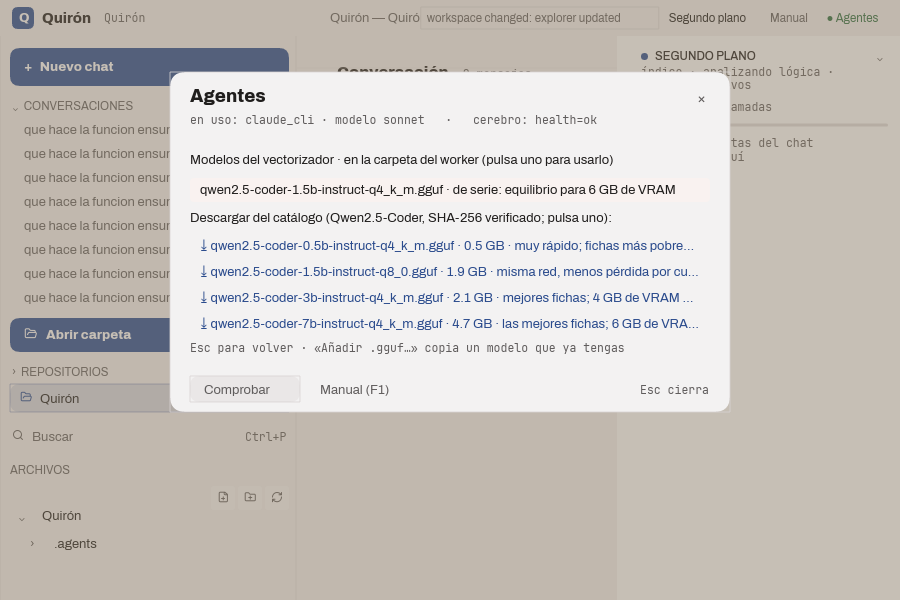
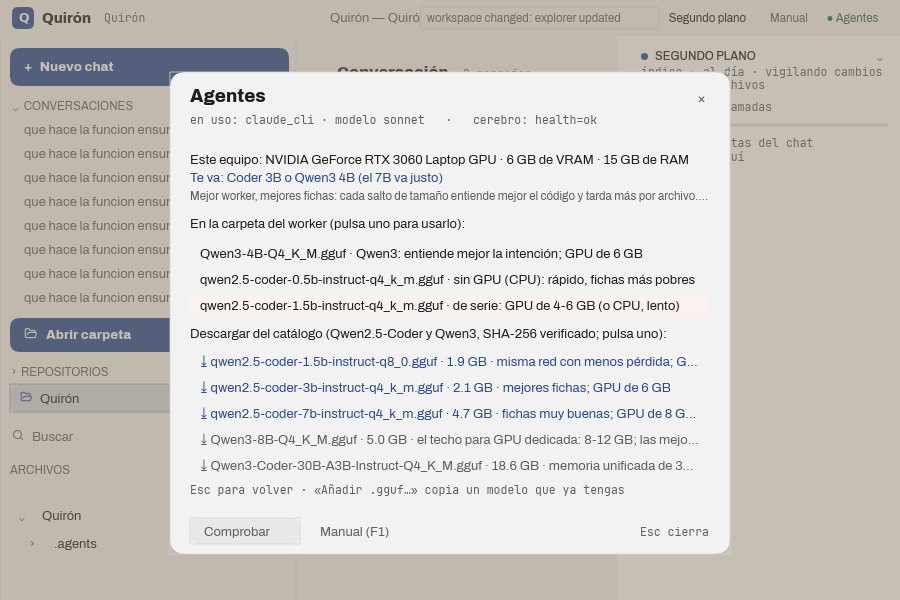
Catálogo del vectorizador con techo Qwen3 8B y guía de hardware en la paleta
- setup-worker.py: Coder 0.5B/1.5B(Q4,Q8)/3B, Qwen3 4B, Coder 7B, Qwen3 8B
  (techo para GPU dedicada) y Qwen3-Coder 30B-A3B solo para memoria unificada;
  revisión, SHA-256 y VRAM orientativa fijas.
- Paleta → Modelos: detecta GPU (nvidia-smi) y RAM, dice «Este equipo … · Te
  va …» y marca cada entrada (justo / solo CPU / no cabe). Prueba de la regla.
- run-worker.sh: --reasoning-budget 0 (el vectorizador no piensa; Qwen3 híbridos).
- Manual y guía con la tabla por equipo. Probado Qwen3 4B como vectorizador:
  fichas JSON limpias, sin <think>.

Changed region(s): [[0.1867, 0.24, 0.8089, 0.93], [0.8089, 0.12, 0.9022, 0.15], [0.9333, 0.12, 0.9644, 0.15]]

diff --git a/Quirón/llore_editor/crates/llore_ui/src/app.rs b/Quirón/llore_editor/crates/llore_ui/src/app.rs
@@ -101,8 +101,114 @@ pub struct WorkerCatalogEntry {
     pub name: String,
     pub file: String,
     pub size_gb: f64,
+    /// VRAM de GPU dedicada con la que va bien; 0 = pensado para CPU.
+    pub min_vram_gb: f64,
     pub nota: String,
     pub present: bool,
+}
+
+/// Lo que se sabe del equipo para aconsejar un modelo del vectorizador.
+#[derive(Debug, Clone, Default, PartialEq)]
+pub struct HardwareInfo {
+    pub gpu: Option<String>,
+    pub vram_gb: f64,
+    pub ram_gb: f64,
+}
+
+impl HardwareInfo {
+    /// `nvidia-smi` si hay GPU NVIDIA; la RAM, de /proc/meminfo.
+    pub fn detect() -> HardwareInfo {
+        let mut info = HardwareInfo::default();
+        if let Ok(salida) = std::process::Command::new("nvidia-smi")
+            .args(["--query-gpu=name,memory.total", "--format=csv,noheader,nounits"])
+            .output()
+        {
+            let texto = String::from_utf8_lossy(&salida.stdout);
+            if let Some(linea) = texto.lines().next() {
+                let mut partes = linea.rsplitn(2, ',');
+                let mib: f64 = partes.next().and_then(|m| m.trim().parse().ok()).unwrap_or(0.0);
+                let nombre = partes.next().map(|n| n.trim().to_string()).filter(|n| !n.is_empty());
+                if mib > 0.0 {
+                    info.vram_gb = mib / 1024.0;
+                    info.gpu = nombre;
+                }
+            }
+        }
+        if let Ok(meminfo) = fs::read_to_string("/proc/meminfo") {
+            for linea in meminfo.lines() {
+                if let Some(resto) = linea.strip_prefix("MemTotal:") {
+                    let kb: f64 = resto.trim().trim_end_matches("kB").trim().parse().unwrap_or(0.0);
+                    info.ram_gb = kb / 1024.0 / 1024.0;
+                }
+            }
+        }
+        info
+    }
+
+    /// Frase de una línea con lo que hay.
+    pub fn resumen(&self) -> String {
+        match &self.gpu {
+            Some(gpu) => format!("{} · {:.0} GB de VRAM · {:.0} GB de RAM", gpu, self.vram_gb, self.ram_gb),
+            None => format!("sin GPU NVIDIA detectada · {:.0} GB de RAM", self.ram_gb),
+        }
+    }
+
+    /// Consejo por tramos de hardware. Mejor worker, mejores fichas: cada
+    /// salto de tamaño mejora la ficha y tarda más por archivo.
+    pub fn recomendacion(&self) -> &'static str {
+        recomendar_modelo(self.vram_gb, self.ram_gb)
+    }
+
+    /// Si un modelo del catálogo cabe: por VRAM, o en CPU con RAM de sobra.
+    pub fn cabe(&self, entrada: &WorkerCatalogEntry) -> Ajuste {
+        if entrada.min_vram_gb <= 0.0 || self.vram_gb >= entrada.min_vram_gb {
+            Ajuste::Bien
+        } else if self.vram_gb > 0.0 && self.vram_gb >= entrada.size_gb + 1.2 {
+            // Pesos más caché de contexto y búferes: un margen de 1,2 GB.
+            Ajuste::Justo
+        } else if self.ram_gb >= entrada.size_gb * 2.5 {
+            Ajuste::SoloCpu
+        } else {
+            Ajuste::NoCabe
+        }
+    }
+}
+
+#[derive(Debug, Clone, Copy, PartialEq, Eq)]
+pub enum Ajuste {
+    Bien,
+    Justo,
+    SoloCpu,
+    NoCabe,
+}
+
+impl Ajuste {
+    pub fn etiqueta(self) -> &'static str {
+        match self {
+            Ajuste::Bien => "",
+            Ajuste::Justo => " · justo en esta GPU",
+            Ajuste::SoloCpu => " · aquí solo en CPU (lento)",
+            Ajuste::NoCabe => " · no cabe en este equipo",
+        }
+    }
+}
+
+pub fn recomendar_modelo(vram_gb: f64, ram_gb: f64) -> &'static str {
+    if vram_gb >= 24.0 || (vram_gb <= 0.0 && ram_gb >= 48.0) {
+        "Qwen3 8B (techo del catálogo) o un GGUF mayor con «Añadir .gguf…» (memoria unificada)"
+    } else if vram_gb >= 8.0 {
+        "Qwen3 8B a 4 bits: el techo del catálogo"
+    } else if vram_gb >= 6.0 {
+        "Coder 3B o Qwen3 4B (el 7B va justo)"
+    } else if vram_gb >= 4.0 {
+        "Coder 1.5B (el 3B si sobra memoria)"
+    } else if vram_gb > 0.0 {
+        "Coder 1.5B"
+    } else if ram_gb >= 16.0 {
+        "Coder 1.5B en CPU (lento) o 0.5B"
+    } else {
+        "Coder 0.5B"
+    }
 }
 
 impl WorkerCatalogEntry {
@@ -117,6 +223,7 @@ impl WorkerCatalogEntry {
                     name: e["name"].as_str()?.to_string(),
                     file: e["file"].as_str()?.to_string(),
                     size_gb: e["size_gb"].as_f64().unwrap_or(0.0),
+                    min_vram_gb: e["min_vram_gb"].as_f64().unwrap_or(0.0),
                     nota: e["nota"].as_str().unwrap_or("").to_string(),
                     present: e["presente"].as_bool().unwrap_or(false),
                 })
@@ -778,6 +885,8 @@ pub struct ProviderProbe {
     pub worker_running: Option<bool>,
     /// Catálogo de modelos descargables, con los ya presentes marcados.
     pub worker_catalog: Vec<WorkerCatalogEntry>,
+    /// GPU y memoria del equipo, para aconsejar un modelo.
+    pub hardware: HardwareInfo,
 }
 
 /// Lado de acoplamiento de un panel principal.
@@ -8770,6 +8879,7 @@ impl AppState {
             .map(|o| WorkerCatalogEntry::from_json(&String::from_utf8_lossy(&o.stdout)))
             .unwrap_or_default();
         probe.worker_dir = worker_dir;
+        probe.hardware = HardwareInfo::detect();
         probe.worker_running = std::process::Command::new("systemctl")
             .args(["--user", "is-active", "quiron-worker.service"])
             .output()
@@ -12338,6 +12448,24 @@ mod tests {
         assert_eq!(state.manual_section, 0);
         state.handle_overlay_key(&Key::Named(NamedKey::Escape), false, false, false);
         assert_eq!(state.overlay_mode, None);
+    }
+
+    #[test]
+    fn el_consejo_de_modelo_sigue_al_hardware() {
+        assert!(recomendar_modelo(6.0, 15.5).contains("3B"));
+        assert!(recomendar_modelo(12.0, 32.0).contains("Qwen3 8B"));
+        assert!(recomendar_modelo(0.0, 128.0).contains("memoria unificada"));
+        assert!(recomendar_modelo(0.0, 8.0).contains("0.5B"));
+        let ocho_b = WorkerCatalogEntry { size_gb: 5.03, min_vram_gb: 8.0, ..Default::default() };
+        let portatil = HardwareInfo { gpu: Some("RTX 3060".into()), vram_gb: 6.0, ram_gb: 15.5 };
+        assert_eq!(portatil.cabe(&ocho_b), Ajuste::SoloCpu);
+        let siete_b = WorkerCatalogEntry { size_gb: 4.68, min_vram_gb: 8.0, ..Default::default() };
+        assert_eq!(portatil.cabe(&siete_b), Ajuste::Justo);
+        let tres_b = WorkerCatalogEntry { size_gb: 2.1, min_vram_gb: 4.0, ..Default::default() };
+        assert_eq!(portatil.cabe(&tres_b), Ajuste::Bien);
+        let sin_gpu = HardwareInfo { gpu: None, vram_gb: 0.0, ram_gb: 8.0 };
+        assert_eq!(sin_gpu.cabe(&ocho_b), Ajuste::NoCabe);
+        assert!(portatil.resumen().contains("6 GB de VRAM"));
     }
 
     #[test]

diff --git a/Quirón/llore_editor/crates/llore_ui/src/bin/llore_gui.rs b/Quirón/llore_editor/crates/llore_ui/src/bin/llore_gui.rs
@@ -2885,7 +2885,7 @@ fn render_agents_overlay(
     } else if state.agent_worker_pick {
         let locales = probe.as_ref().map_or(0, |p| p.worker_models.len().max(1));
         let pendientes = probe.as_ref().map_or(0, |p| p.worker_catalog.iter().filter(|c| !c.present).count());
-        60.0 + locales as f32 * 26.0 + if pendientes > 0 { 30.0 + pendientes as f32 * 26.0 } else { 0.0 }
+        124.0 + locales as f32 * 26.0 + if pendientes > 0 { 30.0 + pendientes as f32 * 26.0 } else { 0.0 }
     } else {
         3.0 * (tarjeta_h + 10.0)
     };
@@ -2952,13 +2952,27 @@ fn render_agents_overlay(
         state.text_system.draw_buffer(canvas, &pista, x0 + 20.0, y + 84.0, Color::from_hex(palette.text_muted));
         y += cuerpo_h;
     } else if state.agent_worker_pick {
+        // La guía de hardware, primero: qué hay en este equipo y qué le va.
+        let hardware = probe.as_ref().map(|p| p.hardware.clone()).unwrap_or_default();
+        let equipo = format!("Este equipo: {}", hardware.resumen());
+        let buf = state.text_system.create_line_buffer(&truncate_chars(&equipo, 110), design::type_scale::SM, ancho - 40.0);
+        state.text_system.draw_buffer(canvas, &buf, x0 + 20.0, y + 16.0, Color::from_hex(palette.text));
+        let consejo = format!("Te va: {}", hardware.recomendacion());
+        let buf = state.text_system.create_line_buffer(&truncate_chars(&consejo, 110), design::type_scale::SM, ancho - 40.0);
+        state.text_system.draw_buffer(canvas, &buf, x0 + 20.0, y + 34.0, Color::from_hex(palette.accent));
+        let buf = state.text_system.create_line_buffer(
+            "Mejor worker, mejores fichas: cada salto de tamaño entiende mejor el código y tarda más por archivo. El vectorizador no razona: lee y escribe fichas.",
+            design::type_scale::XS,
+            ancho - 40.0,
+        );
+        state.text_system.draw_buffer(canvas, &buf, x0 + 20.0, y + 52.0, Color::from_hex(palette.text_muted));
         let rotulo = state.text_system.create_line_buffer(
-            "Modelos del vectorizador · en la carpeta del worker (pulsa uno para usarlo)",
+            "En la carpeta del worker (pulsa uno para usarlo):",
             design::type_scale::SM,
             ancho - 40.0,
         );
-        state.text_system.draw_buffer(canvas, &rotulo, x0 + 20.0, y + 16.0, Color::from_hex(palette.text));
-        let mut fila_y = y + 30.0;
+        state.text_system.draw_buffer(canvas, &rotulo, x0 + 20.0, y + 80.0, Color::from_hex(palette.text));
+        let mut fila_y = y + 94.0;
         let modelos = probe.as_ref().map(|p| p.worker_models.clone()).unwrap_or_default();
         let actual = probe.as_ref().map(|p| p.worker_current.clone()).unwrap_or_default();
         let catalogo = probe.as_ref().map(|p| p.worker_catalog.clone()).unwrap_or_default();
@@ -2987,7 +3001,7 @@ fn render_agents_overlay(
         let pendientes: Vec<_> = catalogo.iter().filter(|c| !c.present).cloned().collect();
         if !pendientes.is_empty() {
             let rotulo = state.text_system.create_line_buffer(
-                "Descargar del catálogo (Qwen2.5-Coder, SHA-256 verificado; pulsa uno):",
+                "Descargar del catálogo (Qwen2.5-Coder y Qwen3, SHA-256 verificado; pulsa uno):",
                 design::type_scale::SM,
                 ancho - 40.0,
             );
@@ -2995,9 +3009,14 @@ fn render_agents_overlay(
             fila_y += 30.0;
             for entrada in pendientes {
                 let fila = Bounds::new(x0 + 20.0, fila_y, ancho - 40.0, 24.0);
-                let texto = format!("⤓ {} · {:.1} GB · {}", entrada.file, entrada.size_gb, entrada.nota);
-                let buf = state.text_system.create_line_buffer(&truncate_chars(&texto, 95), design::type_scale::SM, ancho - 60.0);
-                state.text_system.draw_buffer(canvas, &buf, fila.x + 10.0, fila_y + 16.0, Color::from_hex(palette.accent));
+                let ajuste = hardware.cabe(&entrada);
+                let texto = format!("⤓ {} · {:.1} GB · {}{}", entrada.file, entrada.size_gb, entrada.nota, ajuste.etiqueta());
+                let buf = state.text_system.create_line_buffer(&truncate_chars(&texto, 110), design::type_scale::SM, ancho - 60.0);
+                let color = match ajuste {
+                    llore_ui::app::Ajuste::Bien | llore_ui::app::Ajuste::Justo => Color::from_hex(palette.accent),
+                    _ => Color::from_hex(palette.text_muted),
+                };
+                state.text_system.draw_buffer(canvas, &buf, fila.x + 10.0, fila_y + 16.0, color);
                 state.add_click_target(fila, ClickTargetAction::AgentWorkerDownload(entrada.name.clone()));
                 fila_y += 26.0;
             }

diff --git a/scripts/setup-worker.py b/scripts/setup-worker.py
@@ -18,30 +18,46 @@ CACHE = ROOT / 'data/worker'
 LLAMA = ('llama-b10816-bin-ubuntu-vulkan-x64.tar.gz',
          'https://github.com/ggml-org/llama.cpp/releases/download/b10816/llama-b10816-bin-ubuntu-vulkan-x64.tar.gz',
[1 lines of base64/hex data omitted]
-# Catálogo: familia Qwen2.5-Coder en GGUF oficial, revisiones y sumas fijadas
+# Catálogo: Qwen2.5-Coder y Qwen3 en GGUF oficial, revisiones y sumas fijadas
 # (API de Hugging Face, 6 de septiembre de 2026). El nombre es el que se pasa
 # a --model; el archivo es el que queda en la carpeta del worker.
 CATALOGO = [
+    # min_vram_gb: VRAM de GPU dedicada con la que va bien (0 = pensado para CPU).
+    # La regla general: mejor worker, mejores fichas, más tiempo por archivo.
     {'name': 'qwen2.5-coder-0.5b-q4_k_m', 'file': 'qwen2.5-coder-0.5b-instruct-q4_k_m.gguf',
      'repo': 'Qwen/Qwen2.5-Coder-0.5B-Instruct-GGUF', 'revision': 'ebb2015119c907b064c512bf053e945850b5875f',
[1 lines of base64/hex data omitted]
-     'nota': 'muy rápido; fichas más pobres; vale sin GPU'},
+     'min_vram_gb': 0, 'nota': 'sin GPU (CPU): rápido, fichas más pobres'},
     {'name': 'qwen2.5-coder-1.5b-q4_k_m', 'file': 'qwen2.5-coder-1.5b-instruct-q4_k_m.gguf',
      'repo': 'Qwen/Qwen2.5-Coder-1.5B-Instruct-GGUF', 'revision': 'f86cb2c1fa58255f8052cc32aeede1b7482d4361',
[1 lines of base64/hex data omitted]
-     'nota': 'de serie: equilibrio para 6 GB de VRAM'},
+     'min_vram_gb': 2, 'nota': 'de serie: GPU de 4-6 GB (o CPU, lento)'},
     {'name': 'qwen2.5-coder-1.5b-q8_0', 'file': 'qwen2.5-coder-1.5b-instruct-q8_0.gguf',
      'repo': 'Qwen/Qwen2.5-Coder-1.5B-Instruct-GGUF', 'revision': 'f86cb2c1fa58255f8052cc32aeede1b7482d4361',
[1 lines of base64/hex data omitted]
-     'nota': 'misma red, menos pérdida por cuantización'},
+     'min_vram_gb': 3, 'nota': 'misma red con menos pérdida; GPU de 4-6 GB'},
     {'name': 'qwen2.5-coder-3b-q4_k_m', 'file': 'qwen2.5-coder-3b-instruct-q4_k_m.gguf',
      'repo': 'Qwen/Qwen2.5-Coder-3B-Instruct-GGUF', 'revision': 'f74adce6aa16316c625447af059dbebe4983757c',
[1 lines of base64/hex data omitted]
-     'nota': 'mejores fichas; 4 GB de VRAM o CPU lenta'},
+     'min_vram_gb': 4, 'nota': 'mejores fichas; GPU de 6 GB'},
+    {'name': 'qwen3-4b-q4_k_m', 'file': 'Qwen3-4B-Q4_K_M.gguf',
+     'repo': 'Qwen/Qwen3-4B-GGUF', 'revision': 'bc640142c66e1fdd12af0bd68f40445458f3869b',
[1 lines of base64/hex data omitted]
+     'min_vram_gb': 4, 'nota': 'Qwen3: entiende mejor la intención; GPU de 6 GB'},
     {'name': 'qwen2.5-coder-7b-q4_k_m', 'file': 'qwen2.5-coder-7b-instruct-q4_k_m.gguf',
      'repo': 'Qwen/Qwen2.5-Coder-7B-Instruct-GGUF', 'revision': '13fb94bfda8c8cf22497dc57b78f391a9acb426a',
[1 lines of base64/hex data omitted]
-     'nota': 'las mejores fichas; 6 GB de VRAM justos, CPU muy lenta'},
+     'min_vram_gb': 8, 'nota': 'fichas muy buenas; GPU de 8 GB (en 6 GB va justo)'},
+    {'name': 'qwen3-8b-q4_k_m', 'file': 'Qwen3-8B-Q4_K_M.gguf',
+     'repo': 'Qwen/Qwen3-8B-GGUF', 'revision': '7c41481f57cb95916b40956ab2f0b139b296d974',
[1 lines of base64/hex data omitted]
+     'min_vram_gb': 8, 'nota': 'el techo para GPU dedicada: 8-12 GB; las mejores fichas'},
+    # Por encima del techo, solo con memoria unificada (DGX Spark, Mac, Strix
+    # Halo): mezcla de expertos con 3B activos, rápido para vectorizar.
+    {'name': 'qwen3-coder-30b-a3b-q4_k_m', 'file': 'Qwen3-Coder-30B-A3B-Instruct-Q4_K_M.gguf',
+     'repo': 'unsloth/Qwen3-Coder-30B-A3B-Instruct-GGUF', 'revision': 'b17cb02dd882d5b6ab62fc777ad2995f19668350',
[1 lines of base64/hex data omitted]
+     'min_vram_gb': 24, 'nota': 'memoria unificada de 32 GB o más (DGX Spark, Mac, Strix Halo)'},
 ]
 DE_SERIE = CATALOGO[1]
 

diff --git a/docs/CIERRE_2026-09-05.md b/docs/CIERRE_2026-09-05.md
@@ -758,3 +758,32 @@ compatible, no su papel. Lo hecho para que la aplicación lo diga y lo haga:
   las fichas con la etiqueta nueva (captura
   `evidencias/2026-09-05/gui-vectorizador-cambio/`); vuelta al 1.5B igual.
 
+## Catálogo con techo y guía de hardware (6 de septiembre, mañana)
+
+Pedido del autor: «modelos más potentes para quien tenga mejor máquina,
+explicando que con mejor worker, mejores resultados; tiene que salir una nota
+con capacidades de hardware… el cap será un Qwen3 8B de 4 bits». Hecho:
+
+- **Catálogo** (`setup-worker.py`): Coder 0.5B, 1.5B (Q4 y Q8), 3B, **Qwen3
+  4B**, Coder 7B y **Qwen3 8B (techo para GPU dedicada)**, todos a 4 bits con
+  revisión y SHA-256 fijados; y una entrada por encima del techo solo para
+  memoria unificada (DGX Spark, Mac, Strix Halo): Qwen3-Coder 30B-A3B (mezcla
+  de expertos, 3B activos, 18,6 GB). Cada entrada lleva la VRAM orientativa.
+- **Guía en la propia lista de Modelos**: la paleta detecta la GPU
+  (`nvidia-smi`) y la RAM (`/proc/meminfo`), dice «Este equipo: … · Te va: …»
+  y marca cada entrada del catálogo con «justo en esta GPU», «aquí solo en
+  CPU (lento)» o «no cabe en este equipo». Regla: cabe si la VRAM llega a la
+  orientativa; «justo» si supera el tamaño del archivo más 1,2 GB de margen
+  (caché de contexto y búferes). En este portátil (6 GB): Coder 3B o Qwen3 4B;
+  el 7B justo; el 8B solo en CPU. Prueba unitaria de la regla y del consejo.
+- **El vectorizador no razona**: `run-worker.sh` pasa `--reasoning-budget 0`
+  para que los Qwen3 híbridos escriban la ficha sin pensamiento previo.
+- Manual y guía actualizados con la tabla por equipo y la nota de que un
+  modelo que razone tiene su sitio como agente del chat servido en local.
+- **Qwen3 probado como vectorizador**: descargado Qwen3 4B Q4_K_M con el
+  catálogo, aplicado como hace la paleta; el worker lo sirvió y las fichas
+  nuevas salieron como JSON limpio (`purpose` + `unknowns`), sin rastro de
+  `<think>`, etiquetadas con el modelo
+  (`…|Qwen3-4B-Q4_K_M.gguf`). Vuelta al 1.5B después. Captura de la lista con
+  la guía: `evidencias/2026-09-05/gui-vectorizador/`.
+

diff --git a/docs/MANUAL.md b/docs/MANUAL.md
@@ -59,13 +59,25 @@ está en marcha y permite cambiarlo:
   terminal con la descarga verificada (SHA-256).
 - **Añadir .gguf…**: copia a la carpeta del worker cualquier modelo que ya
   tengas en el disco.
-- El catálogo es la familia Qwen2.5-Coder (0.5B, 1.5B, 3B y 7B). Regla
-  práctica: 0.5B para portátiles sin GPU, 1.5B para 6 GB de VRAM, 3B y 7B
-  para tarjetas más grandes o para quien prefiera mejores fichas a cambio
-  de tiempo.
+- **Mejor worker, mejores fichas.** Cada salto de tamaño entiende mejor el
+  código y escribe fichas más precisas, y tarda más por archivo. La lista de
+  Modelos dice qué GPU y memoria tiene este equipo y qué modelo le va; las
+  entradas que no caben quedan marcadas.
+- Guía por equipo (todo a 4 bits, Q4_K_M):
+  sin GPU → Coder 0.5B (rápido) o Coder 1.5B en CPU (lento);
+  GPU de 4-6 GB (portátil) → Coder 1.5B de serie, Coder 3B o Qwen3 4B si
+  sobra memoria;
+  GPU de 8-12 GB → Coder 7B o **Qwen3 8B, el techo del catálogo para GPU
+  dedicada**;
+  memoria unificada de 32 GB o más (DGX Spark, Mac, Strix Halo) → Qwen3-Coder
+  30B-A3B (mezcla de expertos con 3B activos) o cualquier GGUF con «Añadir
+  .gguf…».
+- El vectorizador nunca «piensa»: el razonamiento de los Qwen3 va apagado
+  (miles de fichas no pueden esperar). Un modelo que razone tiene su sitio
+  como agente del chat, servido en local (tarjetas Ollama o Servidor en red).
 - Cambiar de modelo re-etiqueta las fichas: el proyecto se vuelve a resumir
   con el nuevo, y las fichas del anterior se conservan por si vuelves.
-- Sin interfaz: `scripts/setup-worker.py --model qwen2.5-coder-3b-q4_k_m` y
+- Sin interfaz: `scripts/setup-worker.py --model qwen3-8b-q4_k_m` y
   `scripts/configure-provider.py worker-model --worker-model ruta.gguf --apply`.
 
 ## Trabajar con proyectos grandes

diff --git a/docs/GUIA_EVALUACION.md b/docs/GUIA_EVALUACION.md
@@ -37,7 +37,7 @@ está lista y en ámbar si falta algo, y qué hacer:
 | **OpenAI / compatible** | endpoint, modelo y clave de API | Configurar… (tres campos; la clave no se muestra ni sale en ninguna orden) → Usar |
 | **Servidor en red local** | un servidor compatible en la LAN (llama-server, vLLM, SGLang…) | Configurar… (endpoint, modelo y clave opcional) → Usar |
 | **Ollama local** | Ollama en marcha con un modelo descargado (`ollama pull qwen2.5-coder:7b`) | Instalar → Configurar… (propone el primer modelo descargado) → Usar |
-| **Vectorizador (worker)** | el Qwen que lee el proyecto, escribe qué hace cada función y vectoriza; no chatea | Modelos (elige un `.gguf` local o descarga uno del catálogo con SHA-256) · Añadir .gguf… |
+| **Vectorizador (worker)** | el Qwen que lee el proyecto, escribe qué hace cada función y vectoriza; no chatea | Modelos (guía de hardware del equipo, `.gguf` locales y catálogo descargable con SHA-256: de Coder 0.5B a Qwen3 8B, y 30B-A3B para memoria unificada) · Añadir .gguf… |
 
 «Usar» reescribe el archivo privado (`~/.config/quiron/quiron-brain.env`) y
 reinicia el cerebro; el editor reconecta solo. La aplicación no lee ni guarda

diff --git a/docs/WORKER_Y_PROVEEDORES.md b/docs/WORKER_Y_PROVEEDORES.md
@@ -154,7 +154,8 @@ python3 scripts/configure-provider.py claude-cli --model sonnet
 
 Añadir `--apply` guarda esa elección en el entorno privado y reinicia el cerebro.
 Modelos del vectorizador: `scripts/setup-worker.py --catalog` lista el catálogo
-(Qwen2.5-Coder 0.5B/1.5B/3B/7B en GGUF oficial, con revisión y SHA-256 fijos)
+(Qwen2.5-Coder 0.5B/1.5B/3B/7B, Qwen3 4B y 8B en GGUF oficial, y Qwen3-Coder
+30B-A3B para memoria unificada; revisión, SHA-256 y VRAM orientativa fijos)
 y `--model NOMBRE` descarga uno a la carpeta del worker; la paleta Agentes hace
 lo mismo desde la tarjeta «Vectorizador» (Modelos → catálogo, o «Añadir .gguf…»
 para un archivo propio).
